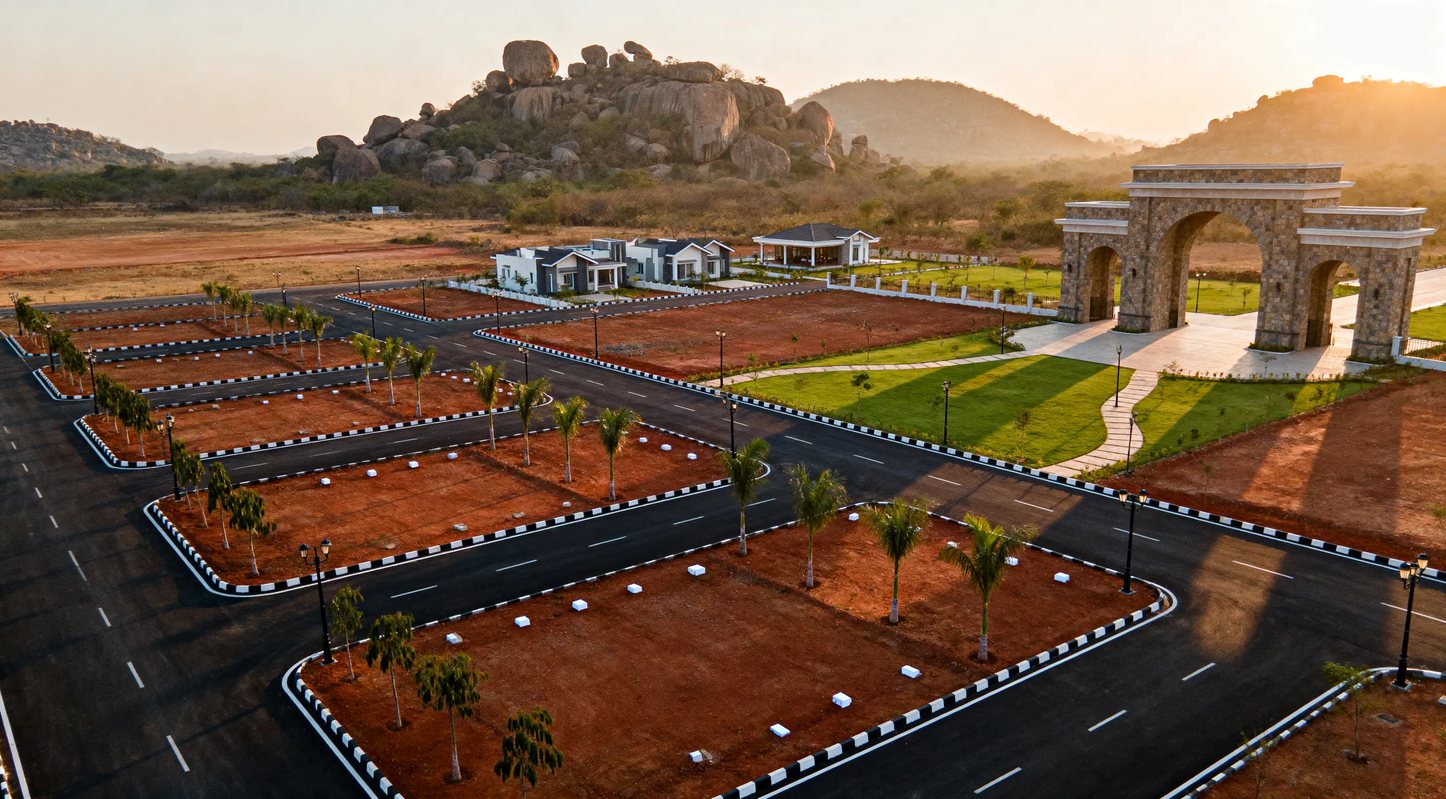
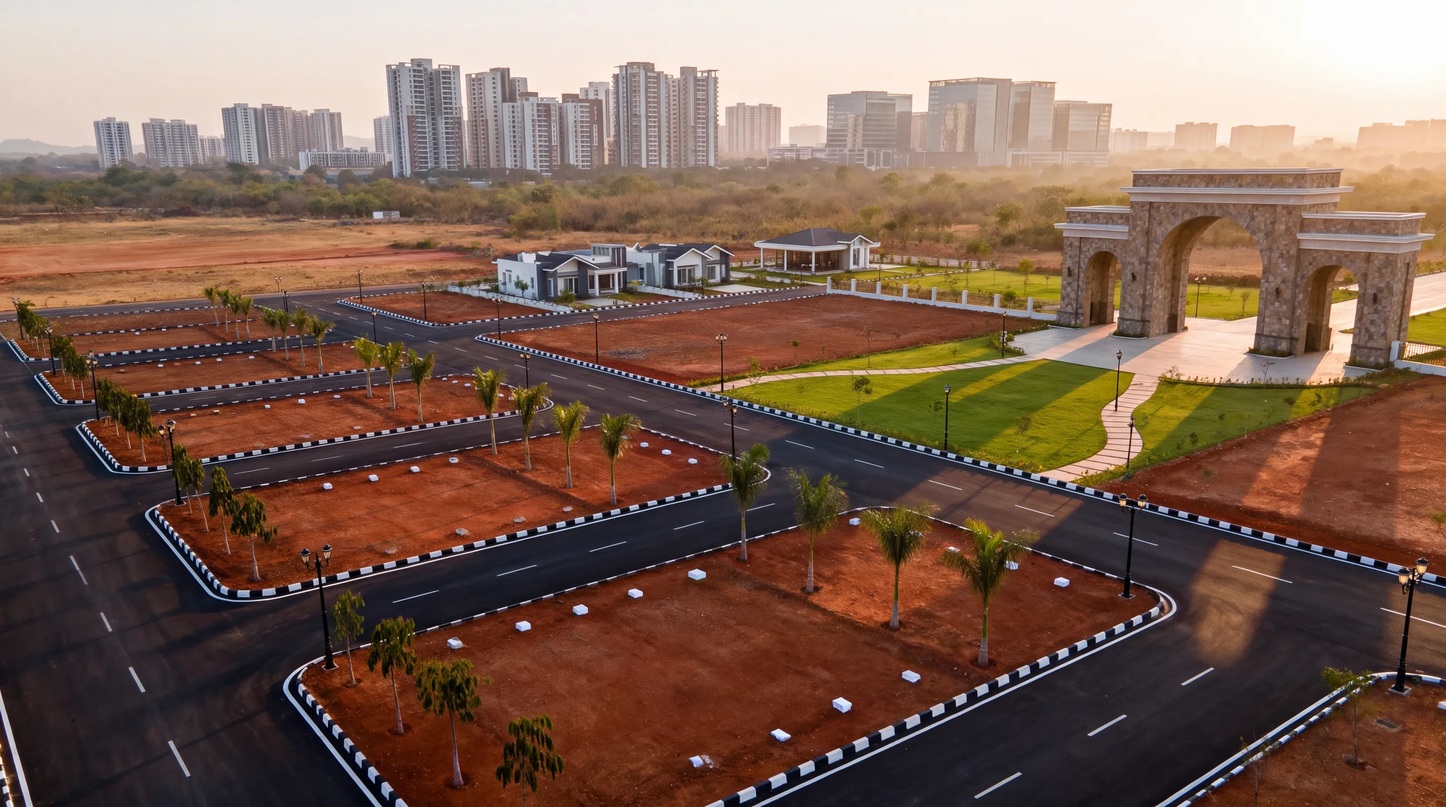
Projects hero: buildings instead of boulder hills
The client asked for the rocks behind the layout to become building visuals.
The same render, edited with kie.ai nano-banana-2: the boulder hills are now a
hazy skyline of apartment towers and office blocks; the plots, roads, villas,
entrance arch and light are unchanged.

diff --git a/website/src/assets/images/index.ts b/website/src/assets/images/index.ts
@@ -2,7 +2,8 @@
 // client's brochure: gcvi-arch, villa-east/west) are artist's impressions and carry the chip (<Plate impression />).
 // gcvi-layout-copy is page 2 of the client's layout PDF (the HMDA layout copy). touch-villa is the live home's own
 // Get in touch picture (greaterinfraprojects.in/images/img-.png, re-encoded). projects-hero is a kie.ai Seedream render
-// (source in website/assets-src/kie/projects-hero-1.jpeg).
+// with its boulder hills swapped for a city skyline by a nano-banana-2 edit (source in
+// website/assets-src/kie/projects-hero-buildings-a.jpg; the original is projects-hero-1.jpeg).
 import anniversaryCollage from "./anniversary-collage.webp";
 import avenueRoad from "./avenue-road.webp";
 import clubhousePool from "./clubhouse-pool.webp";
